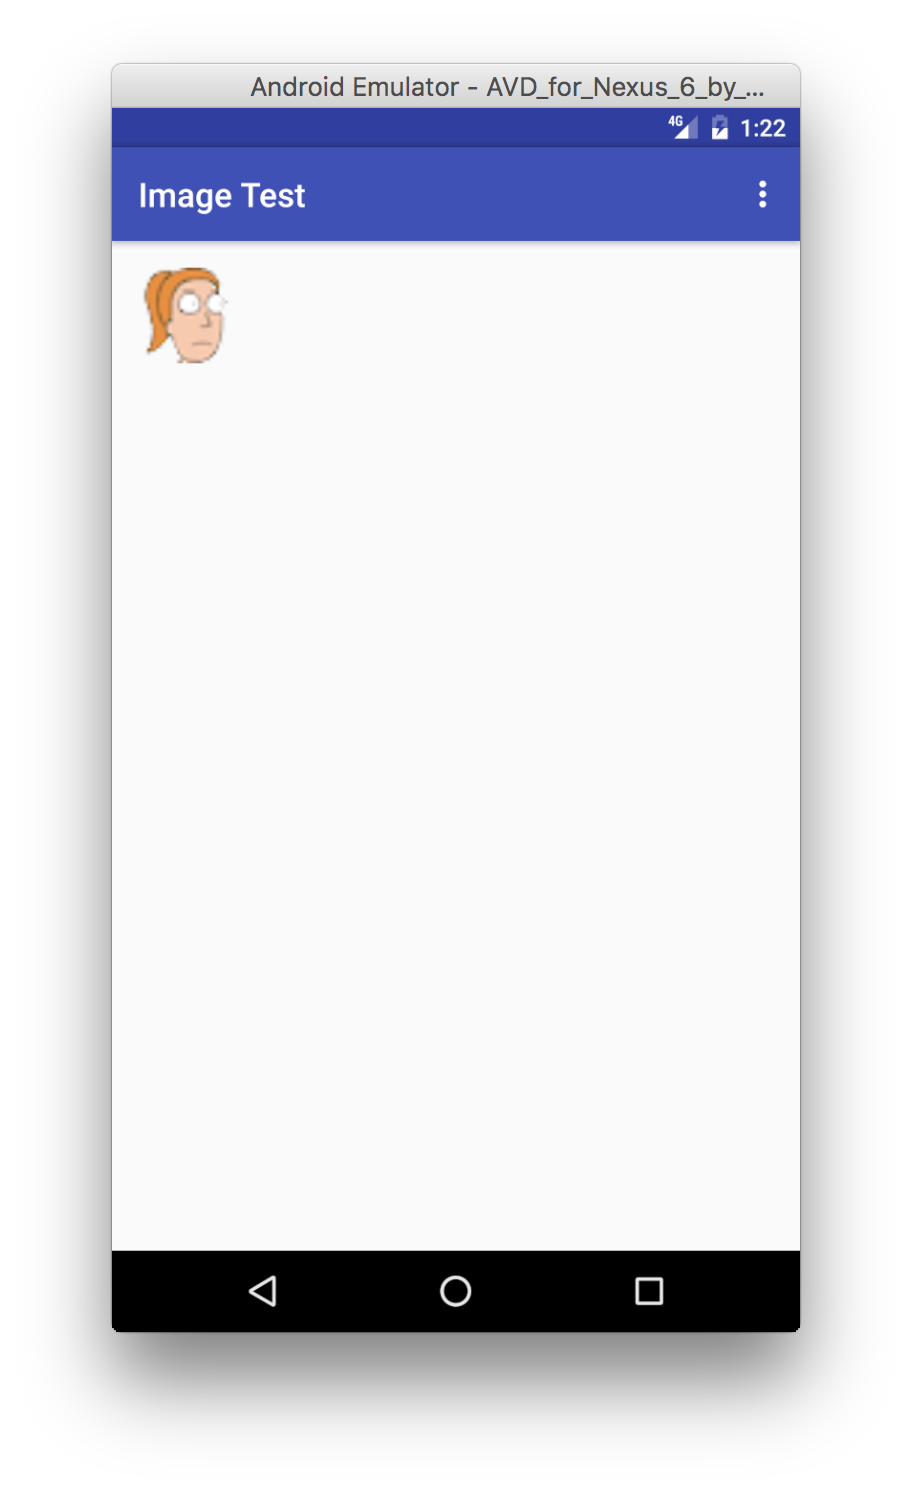
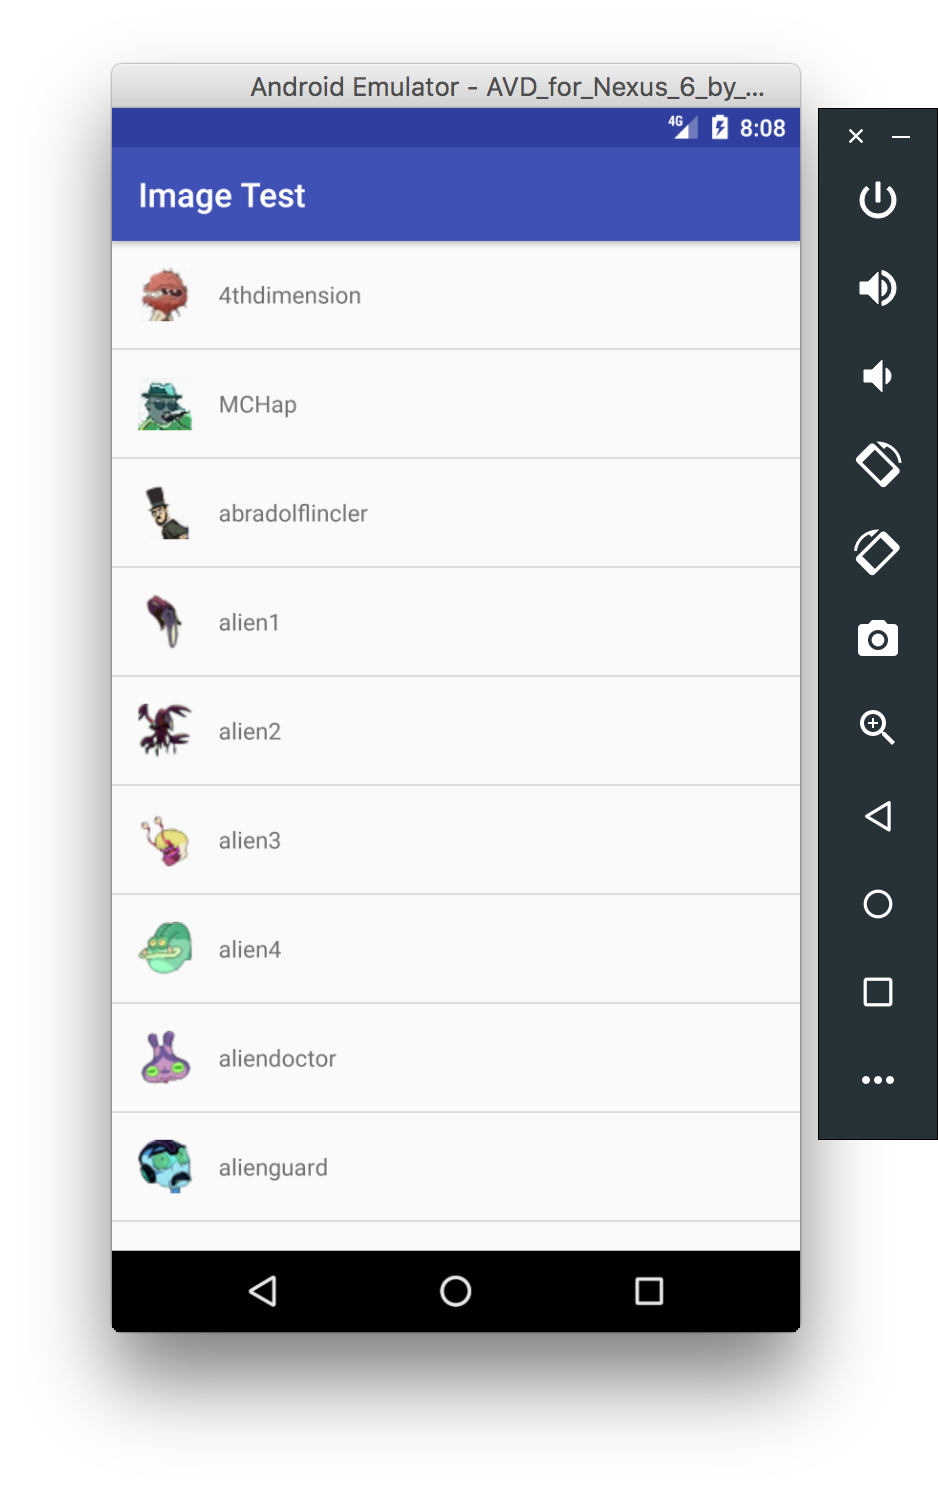
Updated screenshot and description

diff --git a/README.md b/README.md
@@ -5,7 +5,7 @@ A proof of concept of retrieving flair images on Android through parsing subredd
 
 ## Screenshot
 <img src="https://github.com/derek1906/FlairTest/blob/master/screenshot.png" width="300">
-Figure 1: The flair was retrieved by parsing the subreddit stylesheet from /r/rickandmorty.
+Figure 1: A list of flairs found in the /r/rickandmorty stylesheet. Currently flairs are cached but not the size/offset information.
 
 
 ## GIF backgrounds
